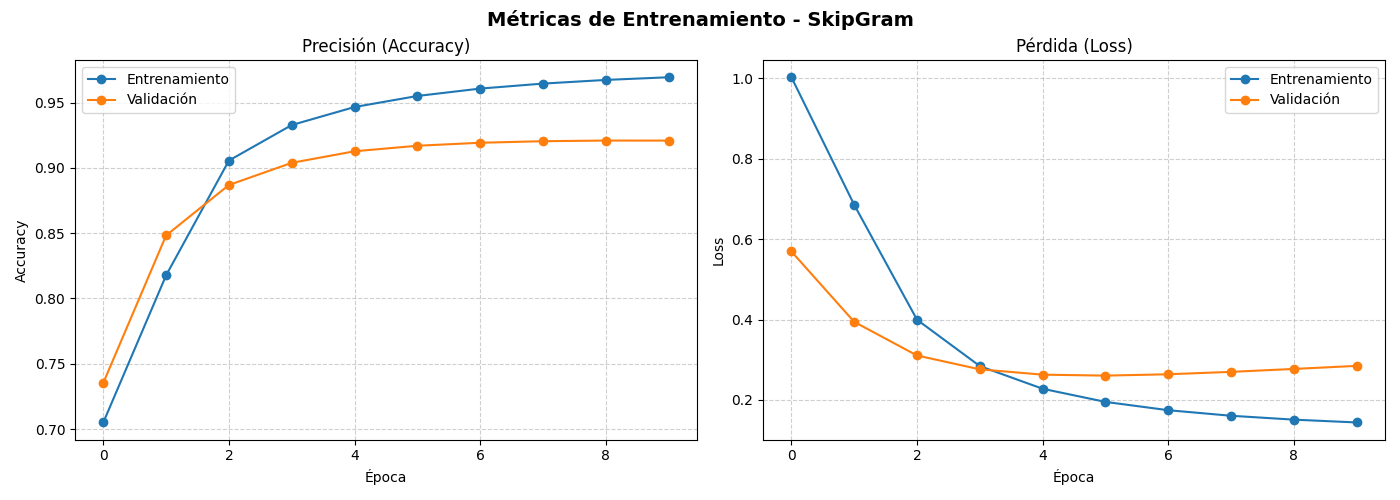
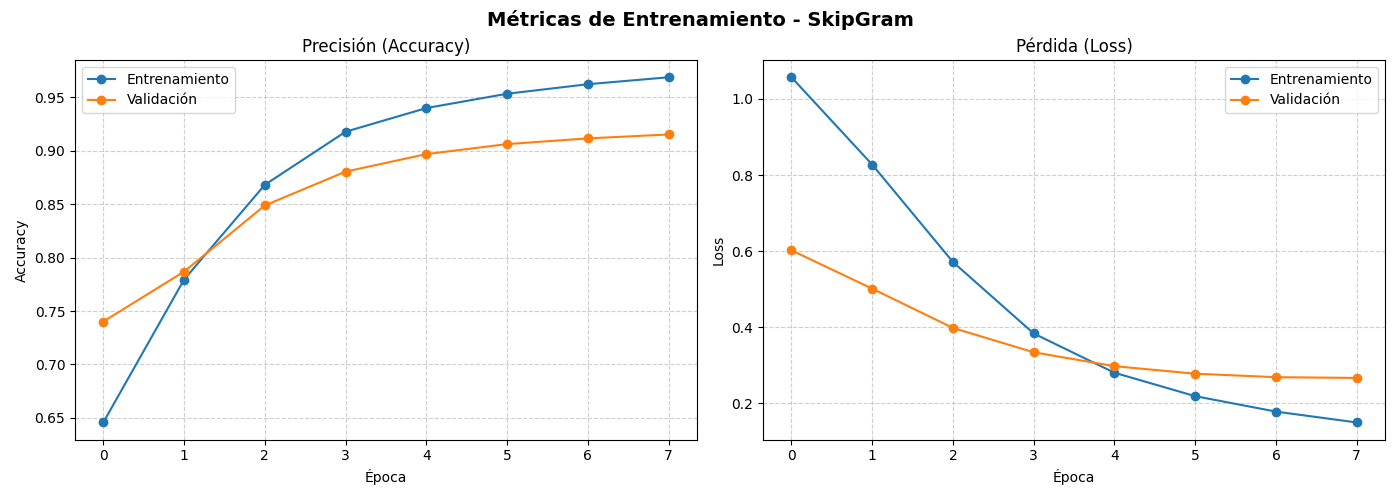
cambios y mejoras de ambos modelos

diff --git a/P2/skipgramm.py b/P2/skipgramm.py
@@ -43,7 +43,7 @@ def submuestreo(secuencia, t=1e-4):
 
 # Arquitectura del modelo
 
-def construir_modelo(vocab_size, embedding_dim=100):
+def construir_modelo(vocab_size, embedding_dim = 64):
     # Dos entradas independientes
     input_target = Input((1,), name="entrada_palabra_central")
     input_context = Input((1,), name="entrada_palabra_contexto")
@@ -64,6 +64,25 @@ def construir_modelo(vocab_size, embedding_dim=100):
     modelo = Model(inputs=[input_target, input_context], outputs=output)
     modelo.compile(loss="binary_crossentropy", optimizer="adam", metrics=["accuracy"])
     return modelo
+
+def obtener_palabras_similares(palabra_objetivo, matriz_embeddings, word_index, index_word, top_n=10):
+    if palabra_objetivo not in word_index:
+        print(f"La palabra '{palabra_objetivo}' no está en el vocabulario.")
+        return
+    
+    word_id = word_index[palabra_objetivo]
+    word_vector = matriz_embeddings[word_id].reshape(1, -1)
+    
+    # Calcular similitud de coseno contra todos los embeddings
+    similitudes = cosine_similarity(word_vector, matriz_embeddings)[0]
+    
+    # Obtener los índices de los top_n más similares (excluyendo la propia palabra)
+    indices_top = np.argsort(similitudes)[::-1][1:top_n+1]
+    
+    print(f"\nLas {top_n} palabras más similares a '{palabra_objetivo}':")
+    for idx in indices_top:
+        if idx in index_word:
+            print(f" - {index_word[idx]} (Similitud: {similitudes[idx]:.4f})")
 
 # VISUALIZACIÓN
 def visualize_tsne_embeddings(words, embeddings, word_index, titulo, filename):
@@ -142,14 +161,14 @@ if __name__ == "__main__":
     np.random.seed(42)
     tf.random.set_seed(42)
 
-    ruta_archivo = os.path.join('datasets', 'harry_potter_and_the_philosophers_stone.txt')
-    ruta_target  = os.path.join('mats', 'target_words_harry_potter.txt')
+    ruta_archivo = os.path.join('datasets', 'game_of_thrones.txt')
+    ruta_target  = os.path.join('mats', 'target_words_game_of_thrones.txt')
 
     tokenizer, secuencia_ids, vocab_size = cargar_y_tokenizar(ruta_archivo)
     secuencia_filtrada = submuestreo(secuencia_ids)
 
     # Generamos pares (1 positivo y 4 negativos por defecto)
-    pares, etiquetas = skipgrams(secuencia_filtrada, vocabulary_size=vocab_size, window_size=5, negative_samples=4, seed= 42)
+    pares, etiquetas = skipgrams(secuencia_filtrada, vocabulary_size=vocab_size, window_size=2, negative_samples=4, seed= 42)
     word_target, word_context = zip(*pares)
     word_target, word_context, etiquetas = np.array(word_target), np.array(word_context), np.array(etiquetas)
 
@@ -169,7 +188,7 @@ if __name__ == "__main__":
     pesos_clase = {0: 1.0, 1: 4.0} 
     
     history = modelo.fit(x=[word_target, word_context], y=etiquetas, 
-                    batch_size=1024, epochs=10, validation_split=0.1, 
+                    batch_size=1024, epochs=8, validation_split=0.1, 
                     class_weight=pesos_clase)
     
     plot_history(history, model_name="SkipGram")
@@ -191,10 +210,8 @@ if __name__ == "__main__":
                                 palabras_objetivo, "tsne_all_skipgram_despues.png")
 
     # Similitud
-    index_word = {id: p for p, id in tokenizer.word_index.items()}
-    for p in ["harry", "wand", "voldemort"][:3]: # Ejemplos
-        word_id = tokenizer.word_index.get(p)
-        if word_id:
-            sims = cosine_similarity(pesos_despues[word_id].reshape(1,-1), pesos_despues)[0]
-            top = np.argsort(sims)[::-1][1:11]
-            print(f"\nSimilares a '{p}':", [index_word[i] for i in top])
+    print("\nEvaluación Cualitativa: Palabras Similares")
+    index_word = {id: palabra for palabra, id in tokenizer.word_index.items()}
+    
+    for palabra in palabras_objetivo:
+        obtener_palabras_similares(palabra, pesos_despues, tokenizer.word_index, index_word, top_n=10)

diff --git a/P2/cbow.py b/P2/cbow.py
@@ -133,7 +133,7 @@ if __name__ == '__main__':
 
     # Arquitectura del modelo
     print("\n Construyendo Modelo CBOW")
-    embedding_size = 100
+    embedding_size = 64
     context_length = window_size * 2
 
     entrada = Input(shape=(context_length,), name='entrada_contexto')
@@ -161,7 +161,7 @@ if __name__ == '__main__':
 
 
     print("\n Entrenamiento del modelo")
-    history = modelo_cbow.fit(X_cbow, y_cbow, batch_size=128, epochs=5, validation_split=0.1)
+    history = modelo_cbow.fit(X_cbow, y_cbow, batch_size=256, epochs=10, validation_split=0.1)
     plot_history(history, model_name="CBOW")
 
     # EVALUACIÓN CUANTITATIVA
@@ -179,8 +179,7 @@ if __name__ == '__main__':
     print("\n Evaluación Cualitativa")
     index_word = {id: palabra for palabra, id in tokenizer.word_index.items()}
     
-    palabras_prueba = ["betray", "ambitious", "sword", "wall"]
-    for palabra in palabras_prueba:
+    for palabra in palabras_objetivo:
         obtener_palabras_similares(palabra, pesos_despues, tokenizer.word_index, index_word, top_n=10)
 
     try:
